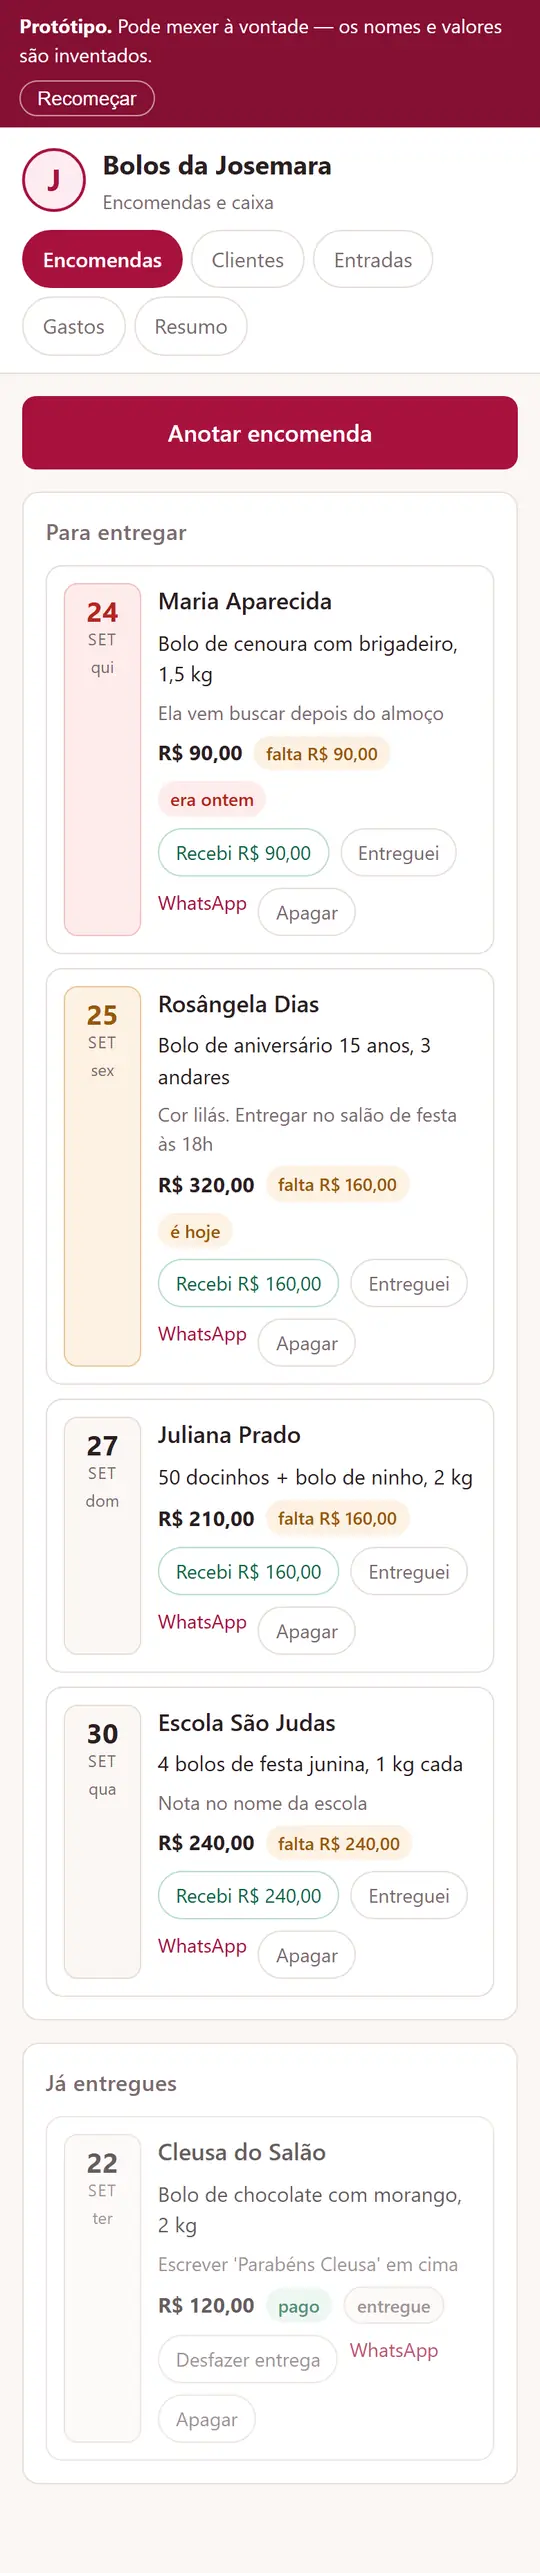
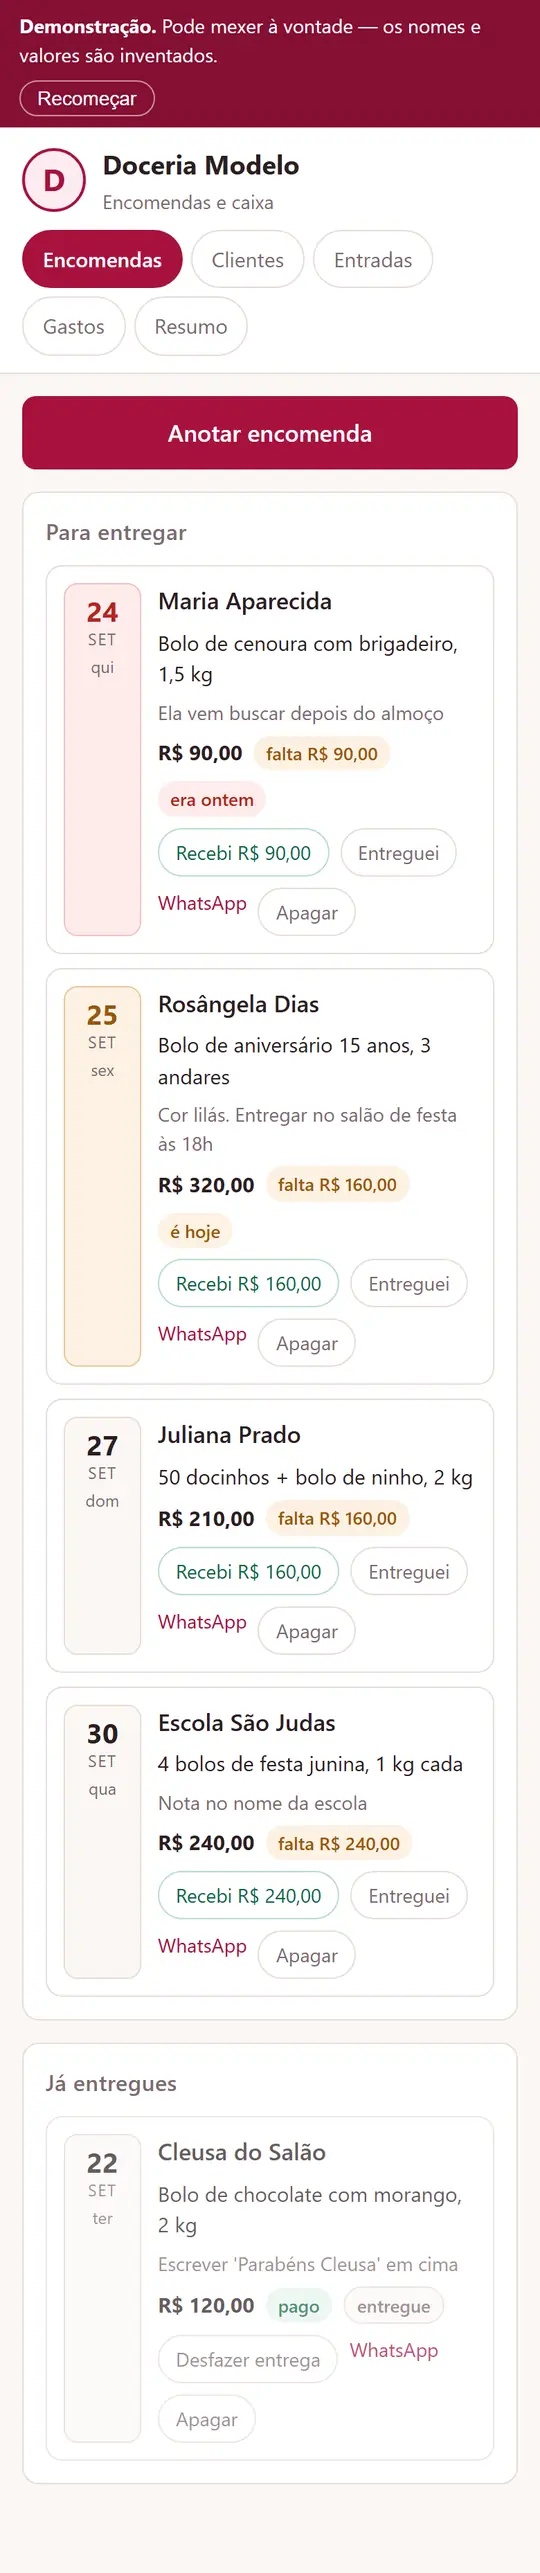
Corrige iPhone: barras laranjas e print que nao descia; bolos sem o nome da tia
- carta grudada e botao fixo sem cor de fundo (o Safari do iOS 26 pinta as barras com ela)
- altura do print pela proporcao do arquivo: no Safari a imagem media 0 ao abrir
- animacao pelo Web Animations, com pausa curta e fixa nas pontas
- sistema de encomendas aponta para demo-bolos (Doceria Modelo)

diff --git a/public/index.html b/public/index.html
@@ -48,41 +48,47 @@
 
       <div class="pilha">
         <article class="carta" style="--cor:#6e2a18; --n:0">
-          <div class="carta__texto">
-            <p class="carta__num">Modelo 01 · Vídeo</p>
-            <h3>Forno de Pedra</h3>
-            <p class="carta__frase">A pizza gira e assa enquanto a pessoa rola a tela.</p>
-            <p class="carta__praquem">Para quem tem produto bonito de mostrar: restaurante, doceria, loja.</p>
-            <a class="botao botao--limao" href="https://forno-de-pedra.vercel.app" target="_blank" rel="noopener">ver o site <span aria-hidden="true">→</span></a>
-          </div>
-          <div class="fone" aria-hidden="true">
-            <img src="prints/forno-de-pedra.webp" alt="" width="540" height="4529" decoding="async">
+          <div class="carta__corpo">
+            <div class="carta__texto">
+              <p class="carta__num">Modelo 01 · Vídeo</p>
+              <h3>Forno de Pedra</h3>
+              <p class="carta__frase">A pizza gira e assa enquanto a pessoa rola a tela.</p>
+              <p class="carta__praquem">Para quem tem produto bonito de mostrar: restaurante, doceria, loja.</p>
+              <a class="botao botao--limao" href="https://forno-de-pedra.vercel.app" target="_blank" rel="noopener">ver o site <span aria-hidden="true">→</span></a>
+            </div>
+            <div class="fone" aria-hidden="true">
+              <img src="prints/forno-de-pedra.webp" alt="" width="540" height="4529" decoding="async">
+            </div>
           </div>
         </article>
 
         <article class="carta" style="--cor:#1c4f52; --n:1">
-          <div class="carta__texto">
-            <p class="carta__num">Modelo 02 · Estático</p>
-            <h3>Fontes Odontologia</h3>
-            <p class="carta__frase">Rápido, limpo e passa confiança logo de cara.</p>
-            <p class="carta__praquem">Para quem vende confiança: consultório, escritório, prestador de serviço.</p>
-            <a class="botao botao--limao" href="https://fontes-odontologia.vercel.app" target="_blank" rel="noopener">ver o site <span aria-hidden="true">→</span></a>
-          </div>
-          <div class="fone" aria-hidden="true">
-            <img src="prints/fontes-odontologia.webp" alt="" width="540" height="4000" loading="lazy" decoding="async">
+          <div class="carta__corpo">
+            <div class="carta__texto">
+              <p class="carta__num">Modelo 02 · Estático</p>
+              <h3>Fontes Odontologia</h3>
+              <p class="carta__frase">Rápido, limpo e passa confiança logo de cara.</p>
+              <p class="carta__praquem">Para quem vende confiança: consultório, escritório, prestador de serviço.</p>
+              <a class="botao botao--limao" href="https://fontes-odontologia.vercel.app" target="_blank" rel="noopener">ver o site <span aria-hidden="true">→</span></a>
+            </div>
+            <div class="fone" aria-hidden="true">
+              <img src="prints/fontes-odontologia.webp" alt="" width="540" height="4000" loading="lazy" decoding="async">
+            </div>
           </div>
         </article>
 
         <article class="carta" style="--cor:#8a3510; --n:2">
-          <div class="carta__texto">
-            <p class="carta__num">Modelo 03 · Interativo</p>
-            <h3>Casa Forte</h3>
-            <p class="carta__frase">O cliente monta a lista e o pedido chega pronto no WhatsApp.</p>
-            <p class="carta__praquem">Para quem recebe pedido: depósito, loja de peças, encomenda.</p>
-            <a class="botao botao--limao" href="https://deposito-casa-forte.vercel.app" target="_blank" rel="noopener">ver o site <span aria-hidden="true">→</span></a>
-          </div>
-          <div class="fone" aria-hidden="true">
-            <img src="prints/casa-forte.webp" alt="" width="540" height="4700" loading="lazy" decoding="async">
+          <div class="carta__corpo">
+            <div class="carta__texto">
+              <p class="carta__num">Modelo 03 · Interativo</p>
+              <h3>Casa Forte</h3>
+              <p class="carta__frase">O cliente monta a lista e o pedido chega pronto no WhatsApp.</p>
+              <p class="carta__praquem">Para quem recebe pedido: depósito, loja de peças, encomenda.</p>
+              <a class="botao botao--limao" href="https://deposito-casa-forte.vercel.app" target="_blank" rel="noopener">ver o site <span aria-hidden="true">→</span></a>
+            </div>
+            <div class="fone" aria-hidden="true">
+              <img src="prints/casa-forte.webp" alt="" width="540" height="4700" loading="lazy" decoding="async">
+            </div>
           </div>
         </article>
       </div>
@@ -115,7 +121,7 @@
           <div>
             <h3>Encomendas de bolo</h3>
             <p>Encomendas com data de entrega, clientes e caixa. Mostra quanto falta receber de cada bolo.</p>
-            <a class="botao" href="https://bolos-prototipo.vercel.app" target="_blank" rel="noopener">testar <span aria-hidden="true">→</span></a>
+            <a class="botao" href="https://demo-bolos.vercel.app" target="_blank" rel="noopener">testar <span aria-hidden="true">→</span></a>
           </div>
         </article>
 
@@ -153,8 +159,10 @@
   </footer>
 
   <a class="zap-fixo" data-zap href="#" target="_blank" rel="noopener" aria-label="Chamar o Pedro no WhatsApp">
-    <svg viewBox="0 0 24 24" width="20" height="20" aria-hidden="true"><path fill="currentColor" d="M12 2a10 10 0 0 0-8.6 15.1L2 22l5-1.3A10 10 0 1 0 12 2Zm0 18.2c-1.5 0-3-.4-4.3-1.2l-.3-.2-3 .8.8-2.9-.2-.3A8.2 8.2 0 1 1 12 20.2Zm4.5-6.1c-.2-.1-1.5-.7-1.7-.8-.2-.1-.4-.1-.6.1l-.8 1c-.1.2-.3.2-.5.1a6.7 6.7 0 0 1-3.3-2.9c-.3-.4.2-.4.7-1.3.1-.2 0-.3 0-.4l-.8-1.8c-.2-.5-.4-.4-.6-.4h-.5a1 1 0 0 0-.7.3 3 3 0 0 0-.9 2.2 5.2 5.2 0 0 0 1.1 2.7 11.8 11.8 0 0 0 4.5 4c1.7.7 2.3.8 3.2.6.5-.1 1.5-.6 1.7-1.2.2-.6.2-1.1.2-1.2-.1-.1-.3-.2-.5-.3Z"/></svg>
-    <span>Chamar no WhatsApp</span>
+    <span class="zap-fixo__pilula">
+      <svg viewBox="0 0 24 24" width="20" height="20" aria-hidden="true"><path fill="currentColor" d="M12 2a10 10 0 0 0-8.6 15.1L2 22l5-1.3A10 10 0 1 0 12 2Zm0 18.2c-1.5 0-3-.4-4.3-1.2l-.3-.2-3 .8.8-2.9-.2-.3A8.2 8.2 0 1 1 12 20.2Zm4.5-6.1c-.2-.1-1.5-.7-1.7-.8-.2-.1-.4-.1-.6.1l-.8 1c-.1.2-.3.2-.5.1a6.7 6.7 0 0 1-3.3-2.9c-.3-.4.2-.4.7-1.3.1-.2 0-.3 0-.4l-.8-1.8c-.2-.5-.4-.4-.6-.4h-.5a1 1 0 0 0-.7.3 3 3 0 0 0-.9 2.2 5.2 5.2 0 0 0 1.1 2.7 11.8 11.8 0 0 0 4.5 4c1.7.7 2.3.8 3.2.6.5-.1 1.5-.6 1.7-1.2.2-.6.2-1.1.2-1.2-.1-.1-.3-.2-.5-.3Z"/></svg>
+      <span>Chamar no WhatsApp</span>
+    </span>
   </a>
 
 </body>

diff --git a/public/css/estilo.css b/public/css/estilo.css
@@ -14,7 +14,7 @@
 }
 
 *, *::before, *::after { box-sizing: border-box; }
-html { scroll-behavior: smooth; }
+html { scroll-behavior: smooth; background: var(--fundo); }
 body {
   margin: 0;
   background: var(--fundo);
@@ -113,6 +113,9 @@ a { color: inherit; }
 
 /* ---------- 2 · modelos: cartas empilhando ---------- */
 .pilha { padding: 0 var(--lado) 3rem; }
+/* A carta que gruda NÃO tem cor de fundo, de propósito: o Safari do iOS 26 pinta as
+   barras de cima e de baixo com a cor do elemento grudado, e o celular ficava laranja.
+   A cor mora no .carta__corpo. Mesma regra no .zap-fixo. */
 .carta {
   --encolhe: 0;
   position: sticky;
@@ -120,6 +123,13 @@ a { color: inherit; }
   height: calc(100svh - 1.5rem - var(--n) * 14px);
   max-height: 58rem;
   margin-bottom: 1.5rem;
+  transform-origin: 50% 0;
+  transform: scale(calc(1 - var(--encolhe) * .07));
+  filter: brightness(calc(1 - var(--encolhe) * .5));
+}
+.carta:last-child { margin-bottom: 0; }
+.carta__corpo {
+  height: 100%;
   padding: 1.5rem;
   border-radius: 1.5rem;
   background: var(--cor);
@@ -127,12 +137,8 @@ a { color: inherit; }
   flex-direction: column;
   gap: 1.2rem;
   overflow: hidden;
-  transform-origin: 50% 0;
-  transform: scale(calc(1 - var(--encolhe) * .07));
-  filter: brightness(calc(1 - var(--encolhe) * .5));
   box-shadow: 0 -10px 40px rgb(0 0 0 / .35);
 }
-.carta:last-child { margin-bottom: 0; }
 .carta__num { font-size: .75rem; letter-spacing: .16em; text-transform: uppercase; opacity: .75; }
 .carta h3 { margin-top: .4rem; font-size: clamp(2rem, 9vw, 3.6rem); letter-spacing: -.02em; }
 .carta__frase { margin-top: .6rem; font-size: 1.05rem; line-height: 1.4; max-width: 30ch; }
@@ -141,8 +147,6 @@ a { color: inherit; }
 
 /* ---------- celular com o print rolando ---------- */
 .fone {
-  --desloc: 0px;
-  --dur: 14s;
   position: relative;
   flex: 1 1 auto;
   min-height: 0;
@@ -155,17 +159,9 @@ a { color: inherit; }
   overflow: hidden;
   box-shadow: 0 20px 50px rgb(0 0 0 / .45), inset 0 0 0 1px #333;
 }
-.fone img {
-  width: 100%;
-  height: auto;
-  animation: rolar var(--dur) ease-in-out infinite alternate;
-  animation-play-state: paused;
-}
-.fone.rodando img { animation-play-state: running; }
-@keyframes rolar {
-  0%, 8% { transform: translateY(0); }
-  92%, 100% { transform: translateY(var(--desloc)); }
-}
+/* a descida do print é feita no app.js (Web Animations): o Safari não relê
+   var() dentro de @keyframes depois que a animação começa, e o print ficava parado */
+.fone img { width: 100%; height: auto; }
 .fone--vazio { display: grid; place-items: center; background: var(--fundo-2); border-style: solid; }
 .fone--vazio span { font-family: var(--serifa); font-size: 1.2rem; color: var(--apagado); }
 
@@ -221,33 +217,35 @@ a { color: inherit; }
   left: 50%;
   bottom: max(1rem, env(safe-area-inset-bottom));
   z-index: 10;
+  color: var(--fundo);
+  font-weight: 800;
+  text-decoration: none;
+  white-space: nowrap;
+  transform: translate(-50%, 180%);
+  transition: transform .45s cubic-bezier(.2, .8, .2, 1);
+}
+.zap-fixo.aparece { transform: translate(-50%, 0); }
+.zap-fixo__pilula {
   display: flex;
   align-items: center;
   gap: .55rem;
   padding: .85rem 1.4rem;
   border-radius: 999px;
   background: var(--limao);
-  color: var(--fundo);
-  font-weight: 800;
-  text-decoration: none;
-  white-space: nowrap;
   box-shadow: 0 10px 30px rgb(0 0 0 / .5);
-  transform: translate(-50%, 180%);
-  transition: transform .45s cubic-bezier(.2, .8, .2, 1);
 }
-.zap-fixo.aparece { transform: translate(-50%, 0); }
 
 /* ---------- computador ---------- */
 @media (min-width: 900px) {
   .topo { padding-bottom: 3.5rem; }
   .pilha, .grade, .cabeca, .passos, .fecho { max-width: 76rem; margin-inline: auto; }
   .cabeca { padding-top: 7rem; }
-  .carta {
+  .carta { max-height: 44rem; }
+  .carta__corpo {
     flex-direction: row;
     align-items: center;
     justify-content: space-between;
     padding: 3rem 4rem;
-    max-height: 44rem;
   }
   .carta .fone { flex: none; height: 100%; max-height: 36rem; }
   .carta__frase { font-size: 1.35rem; }
@@ -263,9 +261,9 @@ a { color: inherit; }
   html { scroll-behavior: auto; }
   .linha > span, .topo__frase, .topo__rolar, .topo__rolar span { animation: none; transform: none; opacity: 1; }
   .topo__nome { transform: none; opacity: 1; }
-  .carta { position: relative; top: auto; height: auto; min-height: 36rem; transform: none; filter: none; }
+  .carta { position: relative; top: auto; height: auto; transform: none; filter: none; }
+  .carta__corpo { min-height: 36rem; }
   .carta .fone { flex: none; height: 26rem; }
-  .fone img { animation: none; }
   .surgir { opacity: 1; transform: none; transition: none; }
   .zap-fixo { transition: none; }
 }

diff --git a/public/js/app.js b/public/js/app.js
@@ -36,13 +36,33 @@ document.querySelectorAll(".surgir").forEach((el) => olhoSurgir.observe(el));
 // ---------- celulares: o print rola sozinho só enquanto aparece na tela ----------
 const fones = [...document.querySelectorAll(".fone")].filter((f) => f.querySelector("img"));
 
+// A animação é criada aqui, com a distância já medida em pixels.
+// A altura do print sai da PROPORÇÃO do arquivo, não do getBoundingClientRect: no Safari a
+// imagem mede 0 de altura logo que a página abre, a conta dava negativa e o print da pizza
+// nunca descia. (O rect também viria encolhido pela escala da carta de trás.)
+const animacoes = new Map();
+const naTela = new Set();
+
 function mede(fone) {
   const img = fone.querySelector("img");
-  if (!img.complete || !img.naturalWidth) return;
-  const sobra = img.getBoundingClientRect().height - fone.clientHeight;
+  if (!img.complete || !img.naturalWidth || !fone.clientWidth) return;
+  const alturaImg = fone.clientWidth * img.naturalHeight / img.naturalWidth;
+  const sobra = Math.round(alturaImg - fone.clientHeight);
+  if (sobra <= 0 || animacoes.get(fone)?.sobra === sobra) return;
+
+  animacoes.get(fone)?.anim.cancel();
   // velocidade constante: ~110px de tela por segundo, pra print curto não passar voando
-  fone.style.setProperty("--desloc", -Math.max(0, sobra) + "px");
-  fone.style.setProperty("--dur", Math.max(4, sobra / 110).toFixed(1) + "s");
+  const duracao = Math.max(4000, (sobra / 110) * 1000);
+  // pausa curta e FIXA nas pontas: pausa longa faz a pessoa achar que o print travou
+  const pausa = 600 / duracao;
+  const anim = img.animate([
+    { transform: "translateY(0)", offset: 0 },
+    { transform: "translateY(0)", offset: pausa, easing: "ease-in-out" },
+    { transform: `translateY(${-sobra}px)`, offset: 1 - pausa },
+    { transform: `translateY(${-sobra}px)`, offset: 1 },
+  ], { duration: duracao, iterations: Infinity, direction: "alternate" });
+  naTela.has(fone) ? anim.play() : anim.pause();
+  animacoes.set(fone, { anim, sobra });
 }
 
 if (!semMovimento) {
@@ -50,12 +70,19 @@ if (!semMovimento) {
     const img = f.querySelector("img");
     img.complete ? mede(f) : img.addEventListener("load", () => mede(f), { once: true });
   });
-  // a moldura muda de tamanho ao girar o celular ou redimensionar a janela
-  const olhoTamanho = new ResizeObserver((entradas) => entradas.forEach((e) => mede(e.target)));
-  fones.forEach((f) => olhoTamanho.observe(f));
+  // a moldura muda de tamanho ao girar o celular; a imagem, quando o navegador termina de
+  // desenhar. Qualquer um dos dois mudando, mede de novo.
+  const olhoTamanho = new ResizeObserver((entradas) =>
+    entradas.forEach((e) => mede(e.target.closest(".fone"))));
+  fones.forEach((f) => { olhoTamanho.observe(f); olhoTamanho.observe(f.querySelector("img")); });
 
+  // só roda enquanto aparece na tela, pra não gastar bateria à toa
   const olhoFone = new IntersectionObserver((entradas) => {
-    entradas.forEach((e) => e.target.classList.toggle("rodando", e.isIntersecting));
+    entradas.forEach((e) => {
+      e.isIntersecting ? naTela.add(e.target) : naTela.delete(e.target);
+      const a = animacoes.get(e.target)?.anim;
+      if (a) e.isIntersecting ? a.play() : a.pause();
+    });
   }, { threshold: 0.2 });
   fones.forEach((f) => olhoFone.observe(f));
 }

diff --git a/scripts/prints.py b/scripts/prints.py
@@ -16,7 +16,7 @@ SITES = {
     "fontes-odontologia": ("https://fontes-odontologia.vercel.app", 4000),
     "casa-forte": ("https://deposito-casa-forte.vercel.app", 4700),
     "demo-salao": ("https://demo-salao.vercel.app", 4700),
-    "bolos": ("https://bolos-prototipo.vercel.app", 4700),
+    "bolos": ("https://demo-bolos.vercel.app", 4700),
 }
 
 LARGURA = 390          # celular comum, em pixel de CSS

diff --git a/docs/superpowers/specs/2026-09-25-portfolio-design.md b/docs/superpowers/specs/2026-09-25-portfolio-design.md
@@ -61,7 +61,7 @@ senha.
 | Sistema | Endereço | Situação |
 |---|---|---|
 | Salão: atendimentos e fiado | demo-salao.vercel.app | no ar, botão **testar →** |
-| Encomendas de bolo (tia Josemara) | bolos-prototipo.vercel.app | no ar, botão **testar →**. Trocou o vendas da live em 25/09 |
+| Encomendas de bolo | demo-bolos.vercel.app ("Doceria Modelo", cópia sem o nome da tia) | no ar, botão **testar →**. Trocou o vendas da live em 25/09 |
 | Gráfica: quadro de pedidos | demo-grafica.vercel.app | **em breve**, sem link, até a demo existir |
 
 Cada sistema tem a mesma prévia de celular rolando. Os cartões sobem de baixo, um por vez,
